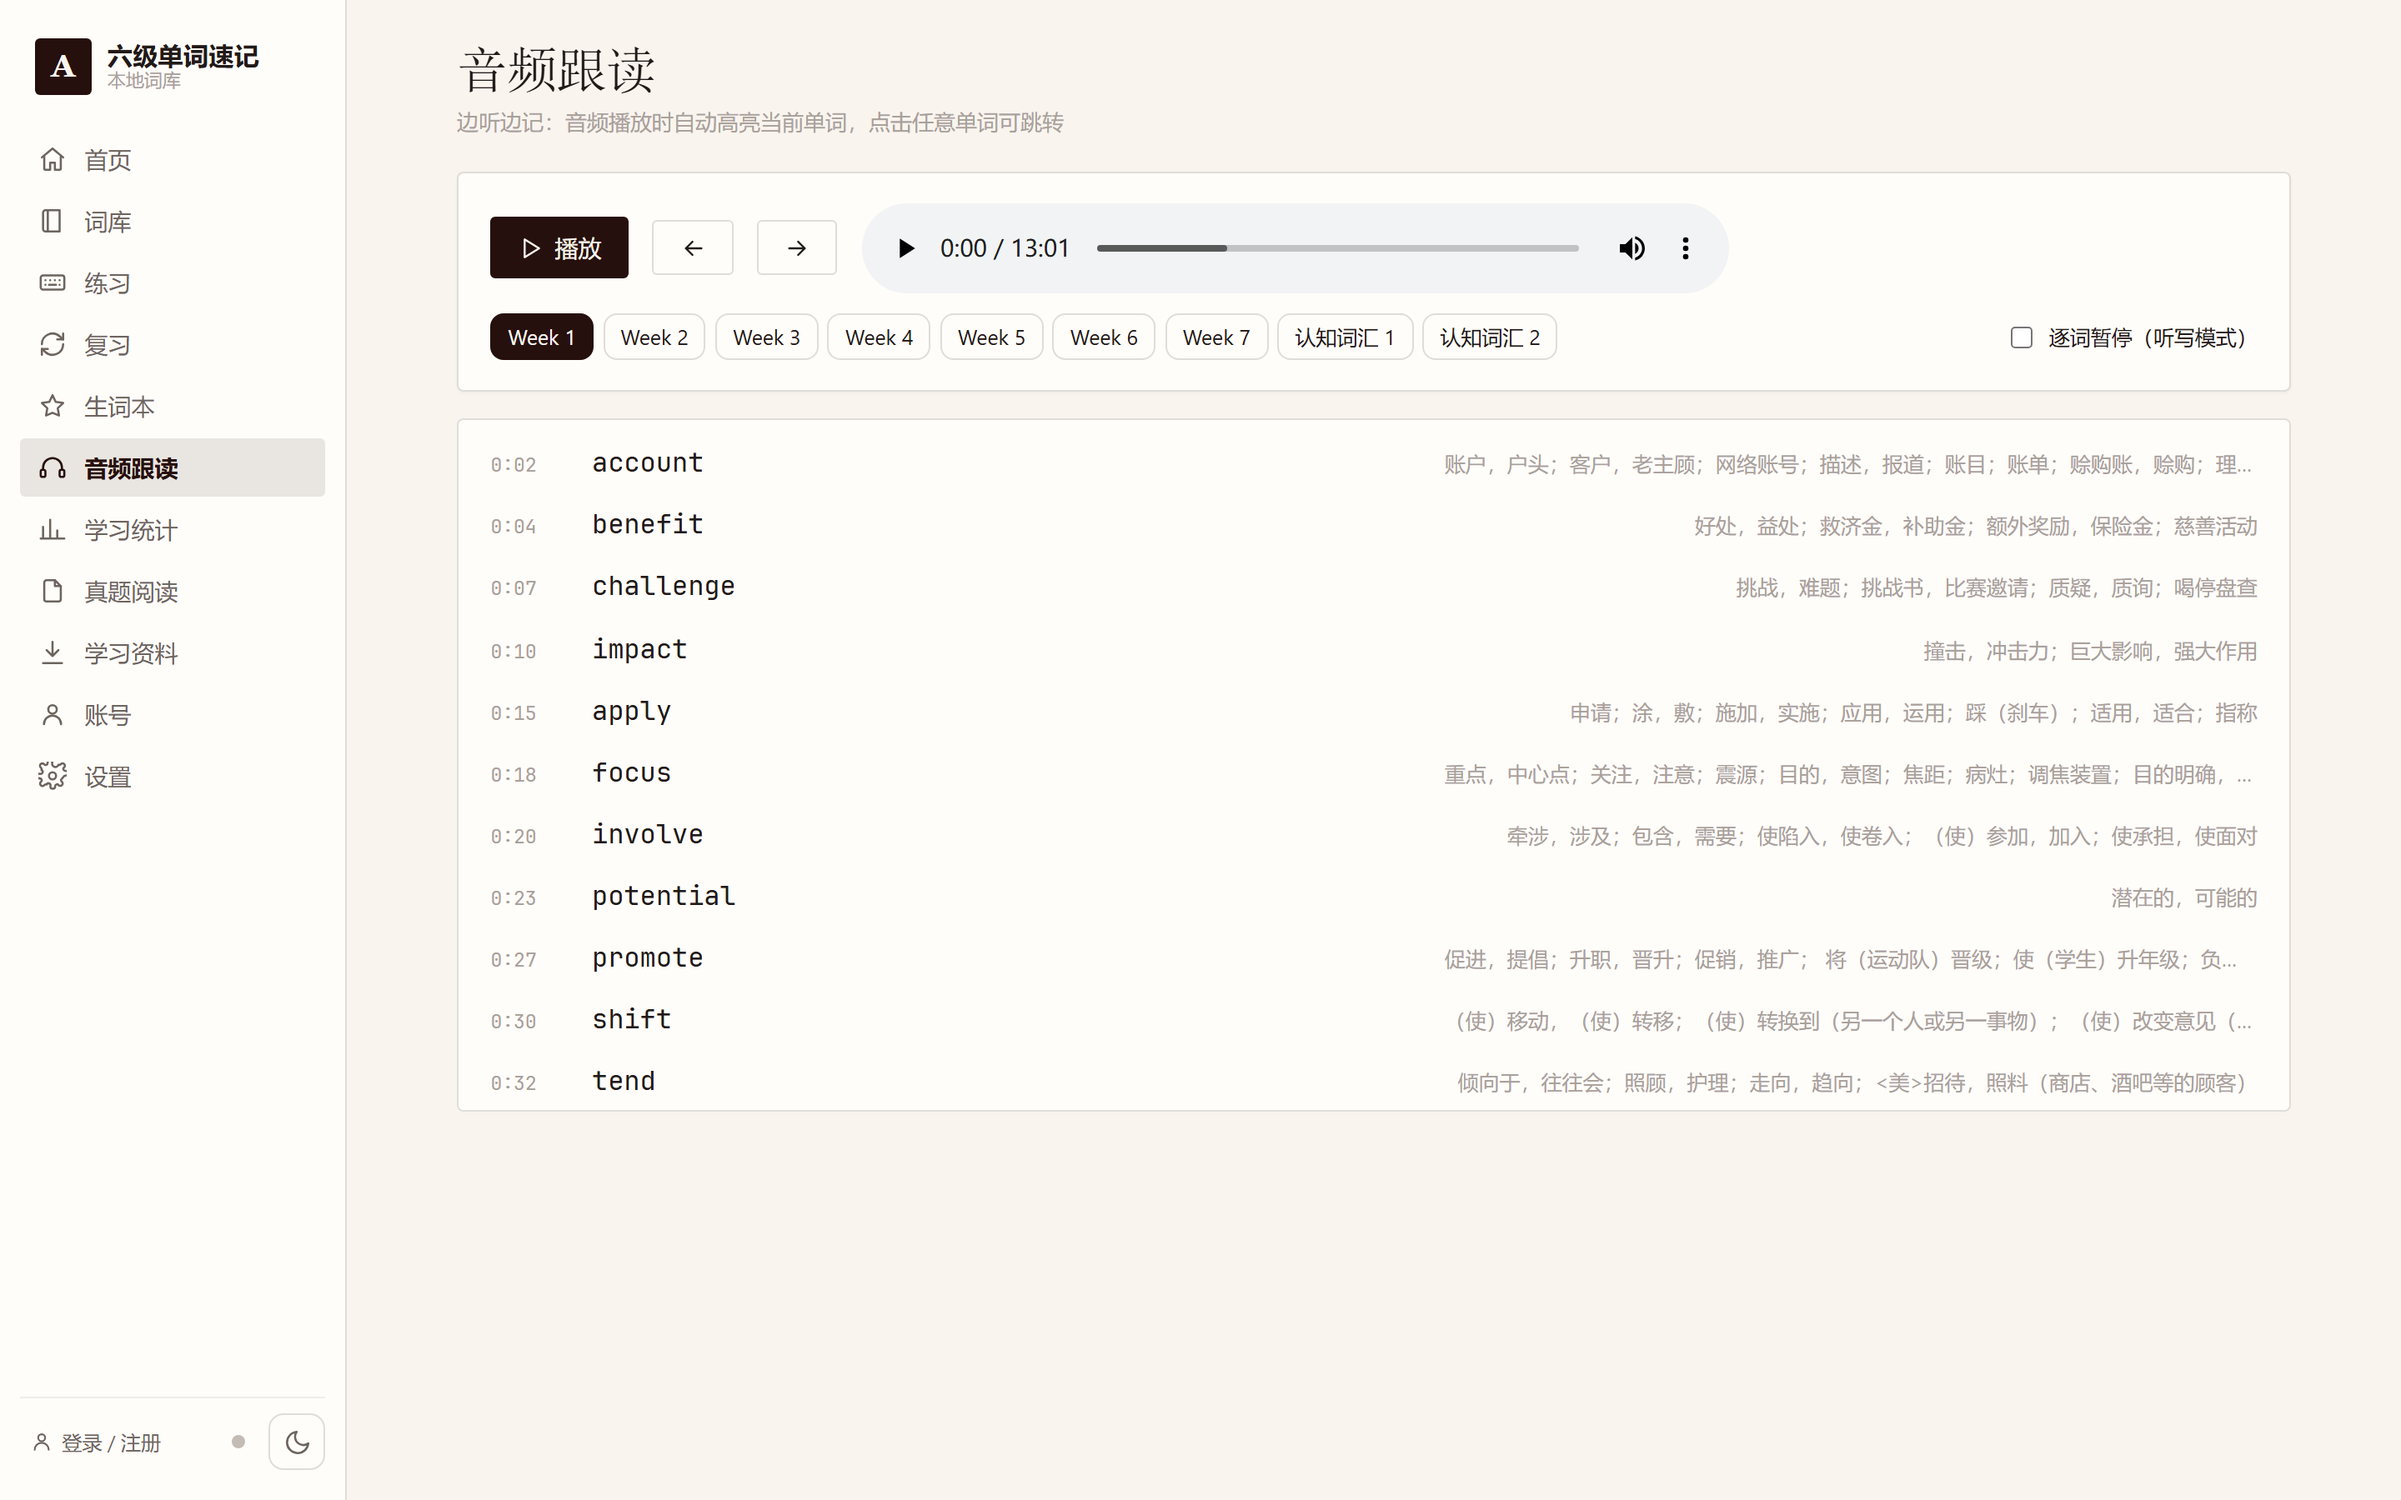
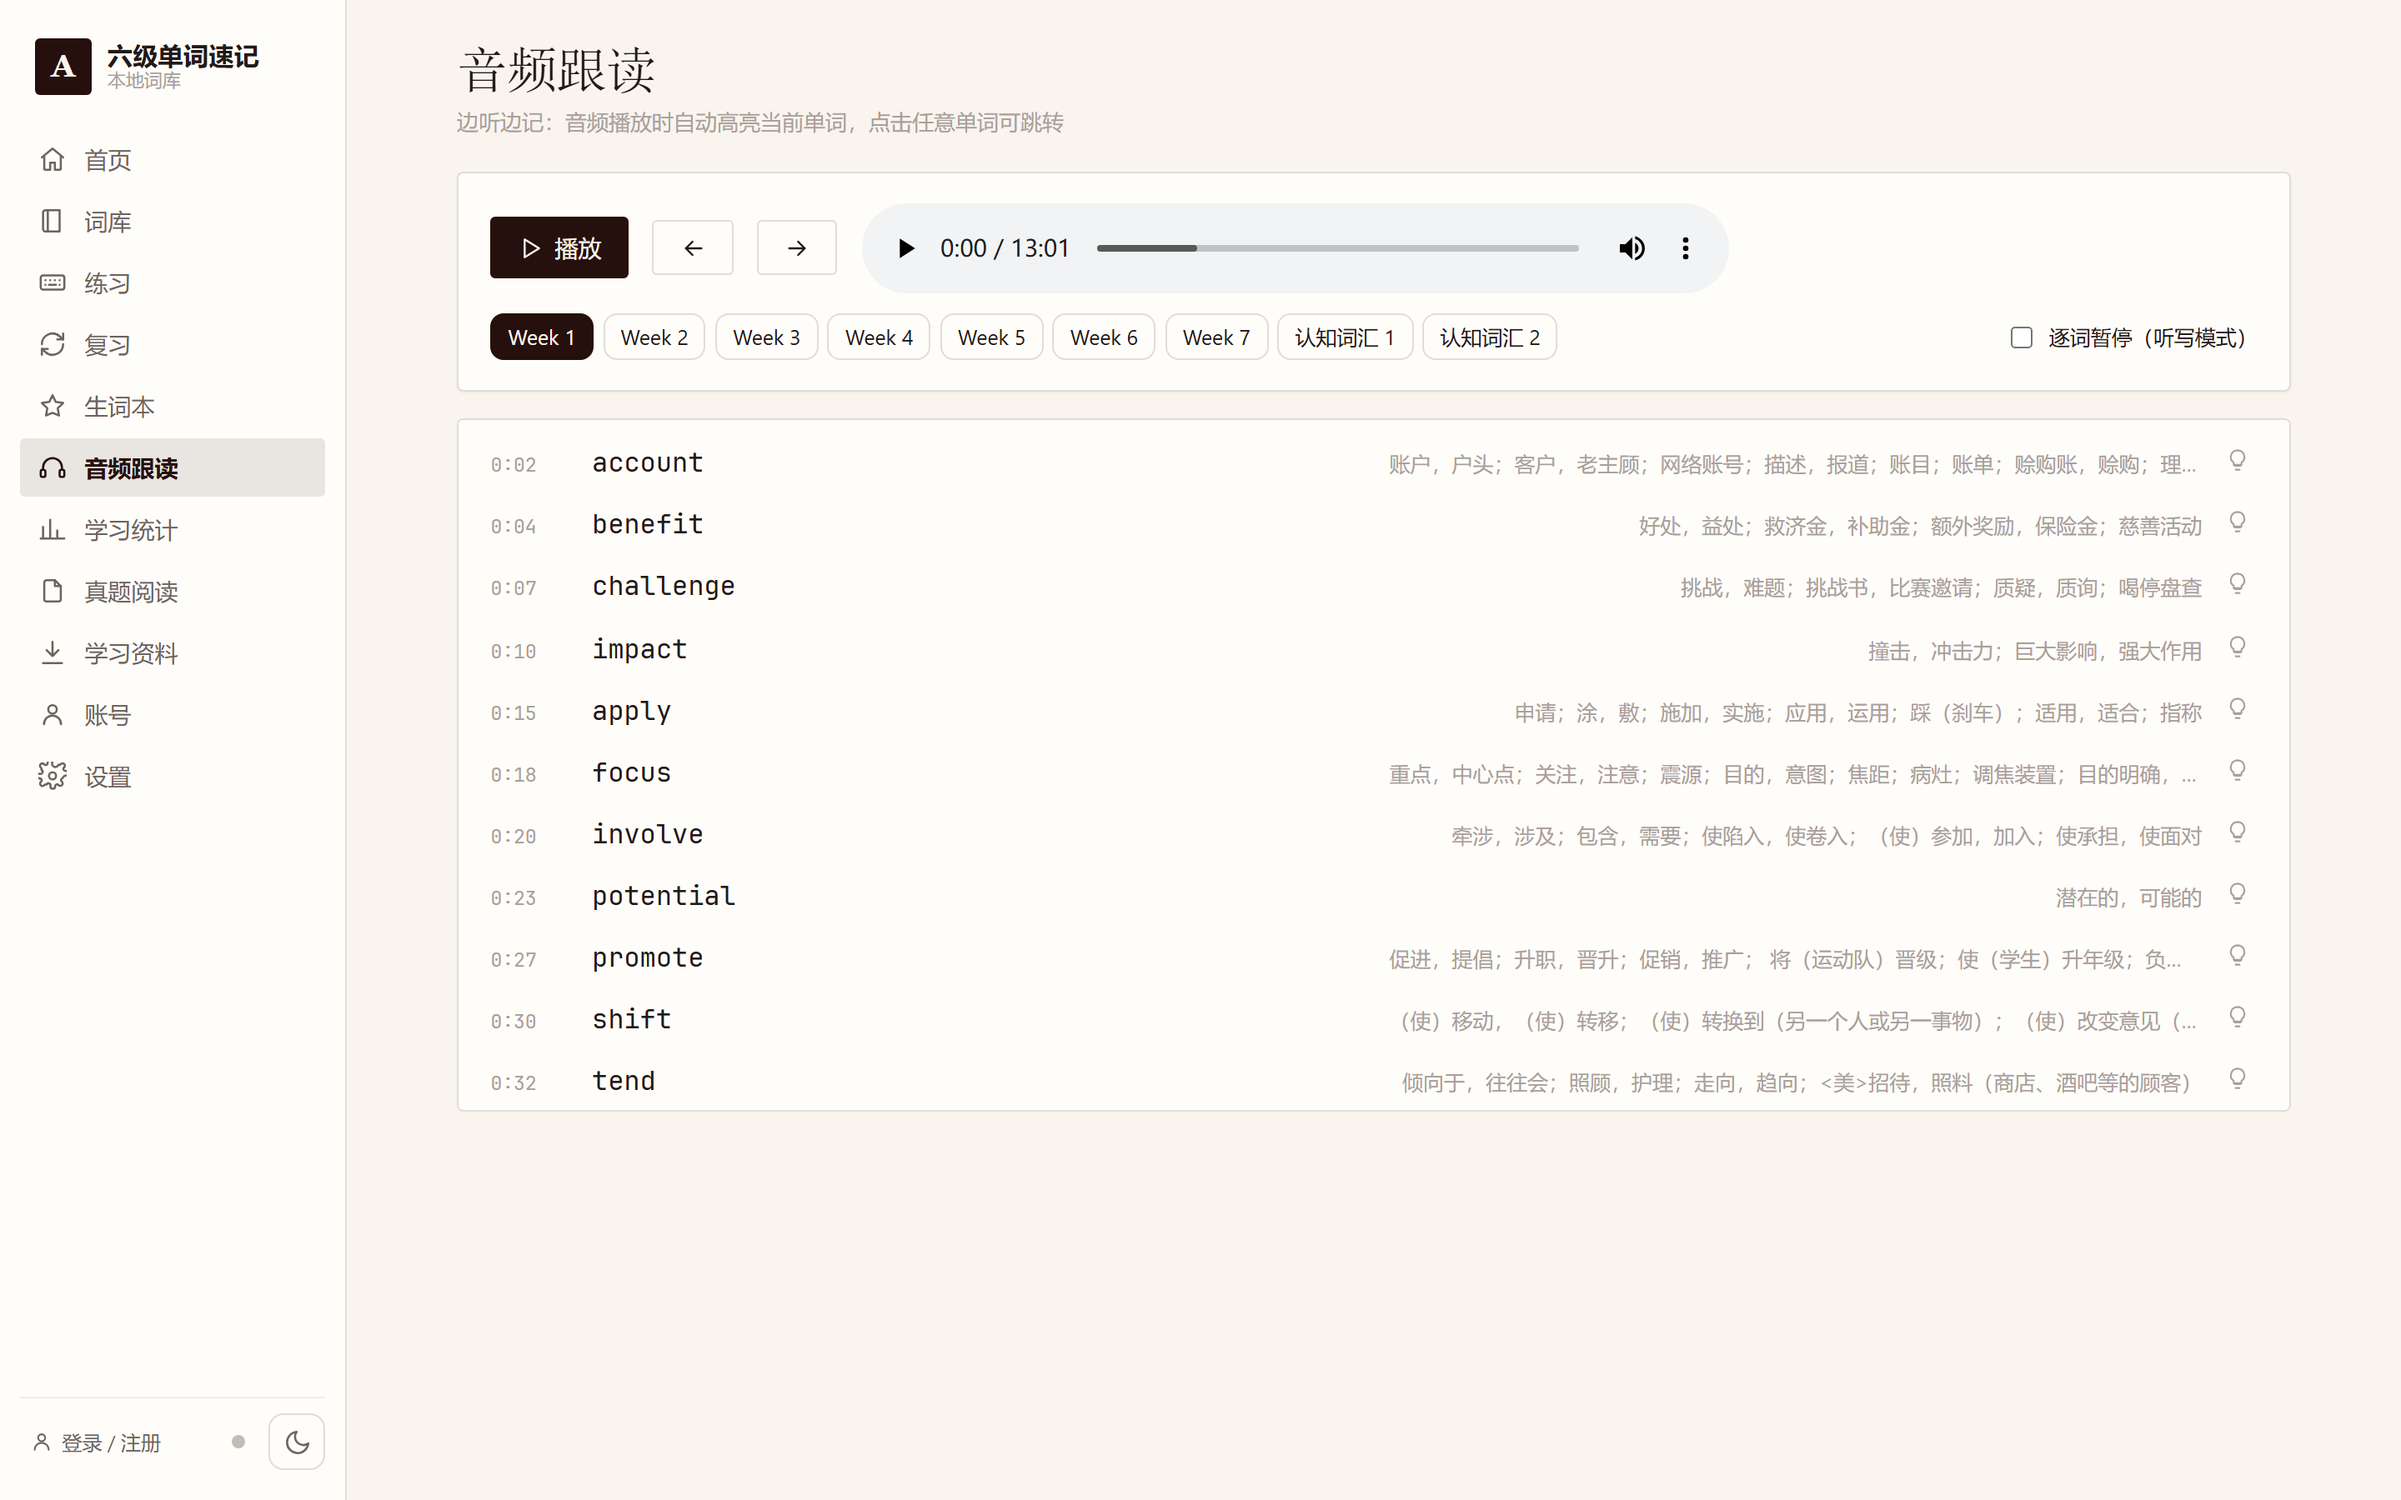
音频跟读每词加详解入口 + 修详解页发音委托叠加（点一次美音读 N 遍）
- audio.js：字幕行尾加灯泡详解链接（点行仍=跳音频时间点，点灯泡=#/word?id= 进详解），
  行点击委托排除链接自身；样式 .ly-detail
- 修「美/英音读很多遍」根因：bindWordActions 绑在 SPA 复用的 #view 容器上，每次进
  详情页 render 都追加一层 click 委托（跳过 N 个词 = N 层）→ 点一次 speak 触发 N 次、
  收藏反复横跳。改为返回清理函数 + word.js 模块级 prevActionsCleanup 在 render 入口拆旧
- verify_site 新增 5 项：详解入口计数/跳转/渲染 + 美音按钮单次触发（spy TW.speech.speak），
  「首屏不加载词典卡」检查挪到任何详情页访问之前（112/112）

Changed region(s): [[0.5625, 0.28, 0.9375, 0.56], [0.5625, 0.5911, 0.9375, 0.6844], [0.5938, 0.7156, 0.9375, 0.7467]]

diff --git a/assets/js/views/word.js b/assets/js/views/word.js
@@ -5,6 +5,11 @@
   var TW = window.TW = window.TW || {};
   TW.views = TW.views || {};
 
+  /* 🔴 上一次详情页挂在 #view 容器上的 click 委托。#view 是路由复用的同一个容器，
+     innerHTML 重建子节点**不会**移除挂在容器上的监听 —— 不拆旧的就会层层叠加：
+     点一次美音读 N 遍（N = 本次页面加载内进过详情页的次数）、收藏反复横跳。 */
+  var prevActionsCleanup = null;
+
   function sec(title, icon, body, cls) {
     if (!body) return '';
     return '<div class="card dc-sec' + (cls ? ' ' + cls : '') + '">' +
@@ -22,6 +27,8 @@
   }
 
   function render(host, query) {
+    // 拆掉上一次详情页的委托监听（见 prevActionsCleanup 说明）
+    if (prevActionsCleanup) { prevActionsCleanup(); prevActionsCleanup = null; }
     // 路由复用同一个 #view，用 token 认领，避免异步回调写进别的页面
     var token = 'wd' + Date.now() + '-' + Math.floor(Math.random() * 1e6);
     host.dataset.owner = token;
@@ -224,7 +231,7 @@
     // 交互
     var backBtn = TW.$('#dc-back', host);
     if (backBtn) backBtn.addEventListener('click', back);
-    TW.ui.bindWordActions(host, w.id);
+    prevActionsCleanup = TW.ui.bindWordActions(host, w.id);
 
     // 笔记自动保存（600ms 防抖；离开页面/f5 前 save() 的 120ms 落盘足够快）
     var noteEl = TW.$('#dc-note', host);
@@ -284,7 +291,7 @@
     var b1 = TW.$('#dc-back', host), b2 = TW.$('#dc-ext-back', host);
     if (b1) b1.addEventListener('click', back);
     if (b2) b2.addEventListener('click', back);
-    TW.ui.bindWordActions(host, null);
+    prevActionsCleanup = TW.ui.bindWordActions(host, null);
   }
 
   TW.views.word = { render: render };

diff --git a/assets/js/components.js b/assets/js/components.js
@@ -104,9 +104,12 @@
       .join('');
   };
 
-  /** 绑定链接区内的收藏 / 掌握按钮（详情页用） */
+  /** 绑定链接区内的收藏 / 掌握 / 发音按钮（详情页用）。
+      返回清理函数 —— root 是 SPA 复用的 #view 容器，不随 innerHTML 重建而卸载；
+      每次进详情页都重新绑定会**叠加监听**：点一次美音读 N 遍（跳过 N 个词就是 N 层）、
+      收藏反复横跳（sunfleeting 实测）。调用方必须在下次 render 前拆掉旧的。 */
   ui.bindWordActions = function (root, id) {
-    root.addEventListener('click', function (e) {
+    var handler = function (e) {
       var btn = e.target.closest('[data-act]');
       if (!btn) return;
       e.preventDefault();
@@ -122,7 +125,9 @@
         var accent = btn.dataset.accent || TW.store.settings.accent;
         TW.speech.speak(btn.dataset.say || '', accent);
       }
-    });
+    };
+    root.addEventListener('click', handler);
+    return function () { root.removeEventListener('click', handler); };
   };
 
   /** 分页控件 */

diff --git a/assets/js/views/audio.js b/assets/js/views/audio.js
@@ -50,6 +50,9 @@
         '<span class="ly-time">' + TW.fmtTime(w.time) + '</span>' +
         '<span class="ly-word">' + TW.esc(w.word) + '</span>' +
         '<span class="ly-trans">' + TW.esc(t.text || '') + '</span>' +
+        // 详解入口（sunfleeting 要求）：点行 = 跳转音频时间点，点灯泡 = 进词典详解
+        '<a class="ly-detail" href="#/word?id=' + encodeURIComponent(w.id) + '" title="查看详解">' +
+          TW.icon('lightbulb', 14) + '</a>' +
       '</div>';
     }).join('');
 
@@ -79,6 +82,7 @@
     }
 
     lyricHost.addEventListener('click', function (e) {
+      if (e.target.closest('.ly-detail')) return;   // 详解链接走 <a> 自身跳转，不要当成「点行跳时间」
       var it = e.target.closest('.lyric-item');
       if (!it) return;
       seekTo(parseFloat(it.dataset.time) || 0);

diff --git a/assets/css/style.css b/assets/css/style.css
@@ -1200,3 +1200,14 @@ a.star-btn { display: inline-flex; align-items: center; justify-content: center;
 }
 .hs-src { flex: none; font-size: 11px; color: var(--text-3); border: 1px solid var(--line-soft); border-radius: var(--radius-sm); padding: 0.05rem 0.35rem; }
 .hs-empty { padding: 0.55rem 0.7rem; font-size: 13.5px; color: var(--text-3); }
+
+/* 音频跟读行的详解入口（点行 = 跳时间点；点灯泡 = 进详解） */
+.ly-detail {
+  flex: none;
+  color: var(--text-3);
+  display: inline-flex; align-items: center;
+  padding: 0.15rem 0.3rem;
+  border-radius: var(--radius-sm);
+  transition: color 0.18s, background 0.18s;
+}
+.ly-detail:hover { color: var(--accent); background: var(--accent-2); }

diff --git a/tools/verify_site.py b/tools/verify_site.py
@@ -383,6 +383,10 @@ def main():
         check("设置里有「清空复习队列」按钮", pg.locator("#data-srs-clear").count(), 1)
 
         # ---------- 音频页 ----------
+        # 首屏不加载词典卡 —— 🔴 必须放在任何详情页访问之前（详情页会按需注入 dict.js）
+        goto("#/")
+        boot_dict = pg.evaluate("() => !!(window.TW.data && TW.data.dictReady())")
+        check("首屏不加载词典卡（按需加载）", boot_dict, False)
         goto("#/audio", 1200)
         audio_src = pg.evaluate("() => TW.$('#au-audio').getAttribute('src')")
         check("音频已挂载 src", bool(audio_src), True)
@@ -401,10 +405,26 @@ def main():
         active_n = pg.evaluate("() => document.querySelectorAll('.lyric-item.active').length")
         check("当前字幕被高亮", active_n >= 1, True)
 
+        # 音频行详解入口（sunfleeting：每个单词要能进详解）
+        check("音频行有详解入口（灯泡）", pg.locator(".ly-detail").count(), 250)
+        pg.locator(".ly-detail").first.click()
+        pg.wait_for_timeout(1300)
+        check("点详解入口进详情页", "#/word?id=" in pg.evaluate("() => location.hash"), True)
+        check("详情页渲染出词面", pg.locator(".dc-word").count() > 0, True)
+
+        # 详情页发音委托不叠加：旧 bug 是每次进详情页都往复用的 #view 容器上**追加**一层
+        # click 委托，点一次美音读 N 遍（N = 本次加载内进过详情页的次数）
+        pg.locator(".dc-nav-sp a").first.click()      # 经「下一个词」箭头再进一次详情页
+        pg.wait_for_timeout(1300)
+        check("第二个词的详情页有美音按钮", pg.locator(".dc-phon").count() >= 1, True)
+        pg.evaluate("() => { window.__spk = []; TW.speech.speak = (t) => { window.__spk.push(t); }; }")
+        pg.locator(".dc-phon").first.click()
+        pg.wait_for_timeout(400)
+        check("点一次美音只发一次音（监听不叠加）",
+              len(pg.evaluate("() => window.__spk")), 1,
+              extra=str(pg.evaluate("() => window.__spk")))
+
         # ---------- 词典卡：首屏按需加载 ----------
-        goto("#/")
-        boot_dict = pg.evaluate("() => !!(window.TW.data && TW.data.dictReady())")
-        check("首屏不加载词典卡（按需加载）", boot_dict, False)
         dr_id = pg.evaluate("() => (TW.WORDS.find(w => w.word === 'drastic') || {}).id")
         check("drastic 在词库中", bool(dr_id), True)
 
